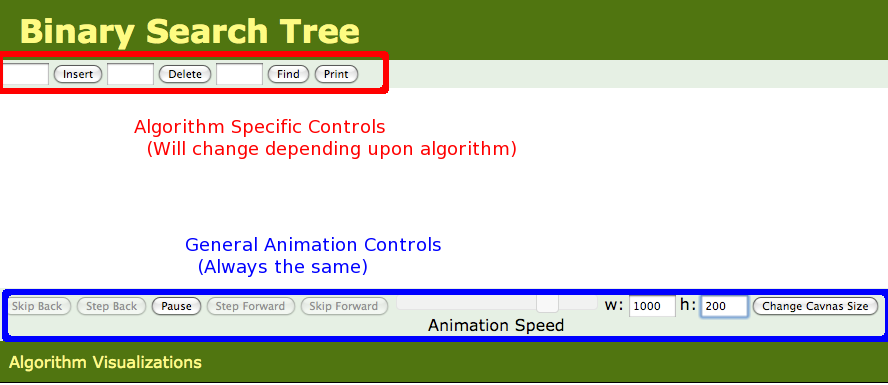
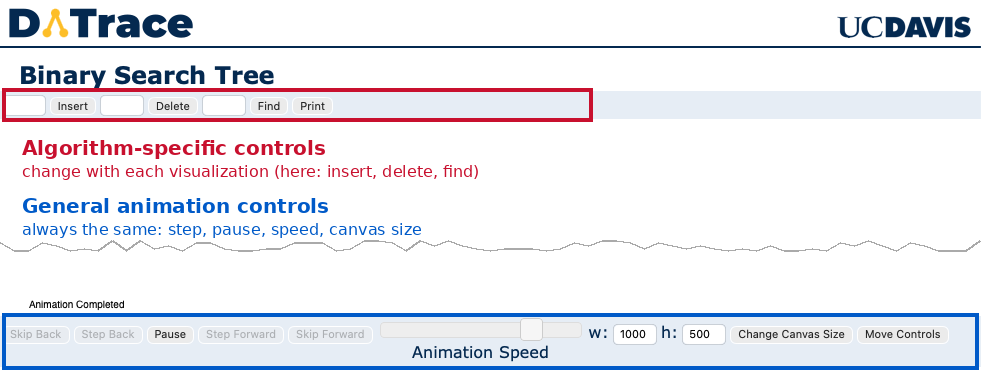
About/contact/bugs cleanup: annotated BST screenshot, contact via GitHub issues only, drop fixed bugs from the known-issues list

diff --git a/site/bugfeature.html b/site/bugfeature.html
@@ -37,36 +37,6 @@ The list below is carried over from the original project at the University of Sa
 
 <h2>Known issues in the original visualizations</h2>
 <ul>
-
-<li> <del> DeleteMin fails on a heap with a single element. </del></li>
-<ul>
-<li> Fixed on 12/19/2013 </li>
-</ul>
-<li> <del>None of the visualizations work for older versions of explorer </del>  </li>
-<ul>
-<li> Fixed on 8/23/2012.  Thanks to Stefan German for fiding this one.</li>
-</ul>
-
-
-
-<li> <del>Putting a semicolon in any of the input fields causes the application to die </del>  </li>
-<ul>
-<li> Fixed on 5/3/2011.  Semicolons can no longer be entered.  Thanks to Stefan German for fiding this one.</li>
-</ul>
-<li> <del>BST and AVL trees have broken undos in HTML5 version</del></li>
-<ul>
-<li> Fixed on 5/3/2011.</li>
-</ul>
-
-<li> <del>Find and Delete broken in open hashing 
-
-</del></li>
-<ul>
-<li> Fixed on 5/10/2011. (thanks to Eduardo Bonet, of Santa Catarina Federal University, Brazil, for finding this one!)</li>
-</ul>
-
-
-
 <li> All algorithms that compute an ordering (BST, AVL Trees, etc) don't sort floating point numbers correctly -- 9.2 &gt; 10.3 </li>
 <ul>
 <li> This one is a design decision -- since those algoritms can take <em>any</em> string, the decision was made to sort based on lexicographic order. 
@@ -76,35 +46,9 @@ integers would always be ordered as expected (though negative numbers are alas o
 fast -- how should 10.4 compare to 3.1.2?  What about 3A -- is that a string or a hexidecimal number?  
 What about AF? Should BC come before or after AFF?  We made the executive decision to just do string comparisons.
 </ul>
-<li> <del> When running connected components, if you run the algorithm, then undo, then run it again, the application breaks.  We're working on a fix -- 
-the current workaroud is to create a new graph after undo before running the algorithm again.</del></li>
-<ul>
-<li> Fixed on 5/10/2011.</li>
-</ul>
-
-
-<li> <del>Undoing deleting an element from a B-Tree or B+ tree broken 
-
-</del></li>
-<ul>
-<li> Fixed on 6/13/2011.</li>
-</ul>
-
-
-<li> <del>Radix sort broken on Safari browser 
-
-</del></li>
-<ul>
-<li> Fixed on 6/13/2011.</li>
-</ul>
-
-
-
 <li> Various typos </li>
 <ul>
-<li> Please continue to send in any typos you see, and I will correct them as I get to them (at a somewhat lower priority than functionaility 
-bugs, of course).  Typo corrections will not appear on this page.
-</li>
+<li> Typos in the visualizations are welcome as issues too, at a somewhat lower priority than functionality bugs. </li>
 
 </ul>
 </ul>

diff --git a/site/about.html b/site/about.html
@@ -49,14 +49,14 @@ typical visualization, for Binary Search Trees:
 
 <br> <br>
 
-<img src="Screenshot.png" alt="BST Screenshot">
+<img src="Screenshot.png" alt="Binary Search Tree page with the algorithm-specific controls boxed in red and the general animation controls boxed in blue" style="max-width: 100%; height: auto; border: 1px solid #ccc">
 <br>
 
 <h2> Algorithm Specific Controls </h2>
-At the top of the screen (boxed in red in the above screenshot) are the algorithm specific controls -- these will change depending upon
+At the top of the screen (boxed in red in the screenshot above) are the algorithm specific controls -- these will change depending upon
 what algorithm you are visualizing.  In this example, you could insert, delete, or find an element in the BST by entering text in the
 appropriate field and either pressing return or clicking the relevant button.  The tree can be printed by clicking the print button.
-Once you give a command, the visualization will start, and can be controlled by the general animation controls at the bottom of the screen.
+Once you give a command, the visualization will start, and can be controlled by the general animation controls at the bottom of the screen (boxed in blue).
 
 <h2> General Animation Controls </h2>
 

diff --git a/site/contact.html b/site/contact.html
@@ -33,9 +33,7 @@
 
 <br>
 Find a bug, or want a visualization added? Open an issue at
-<a href="https://github.com/kstevensgrp/ucd-datrace/issues">github.com/kstevensgrp/ucd-datrace/issues</a>,
-or email Kristian Stevens, Department of Computer Science, UC Davis:
-kastevens (at) ucdavis.edu.
+<a href="https://github.com/kstevensgrp/ucd-datrace/issues">github.com/kstevensgrp/ucd-datrace/issues</a>.
 
 <br> <br>
 For questions about the original visualizations, see the

diff --git a/README.md b/README.md
@@ -37,4 +37,4 @@ python3 -m http.server 8080
 
 Copyright 2011 David Galles, University of San Francisco. Redistributed under
 the BSD 2-clause license in `LICENSE.txt`. UC Davis branding, page text and
-any later changes are by Kristian Stevens (kastevens@ucdavis.edu).
+any later changes are by Kristian Stevens.
